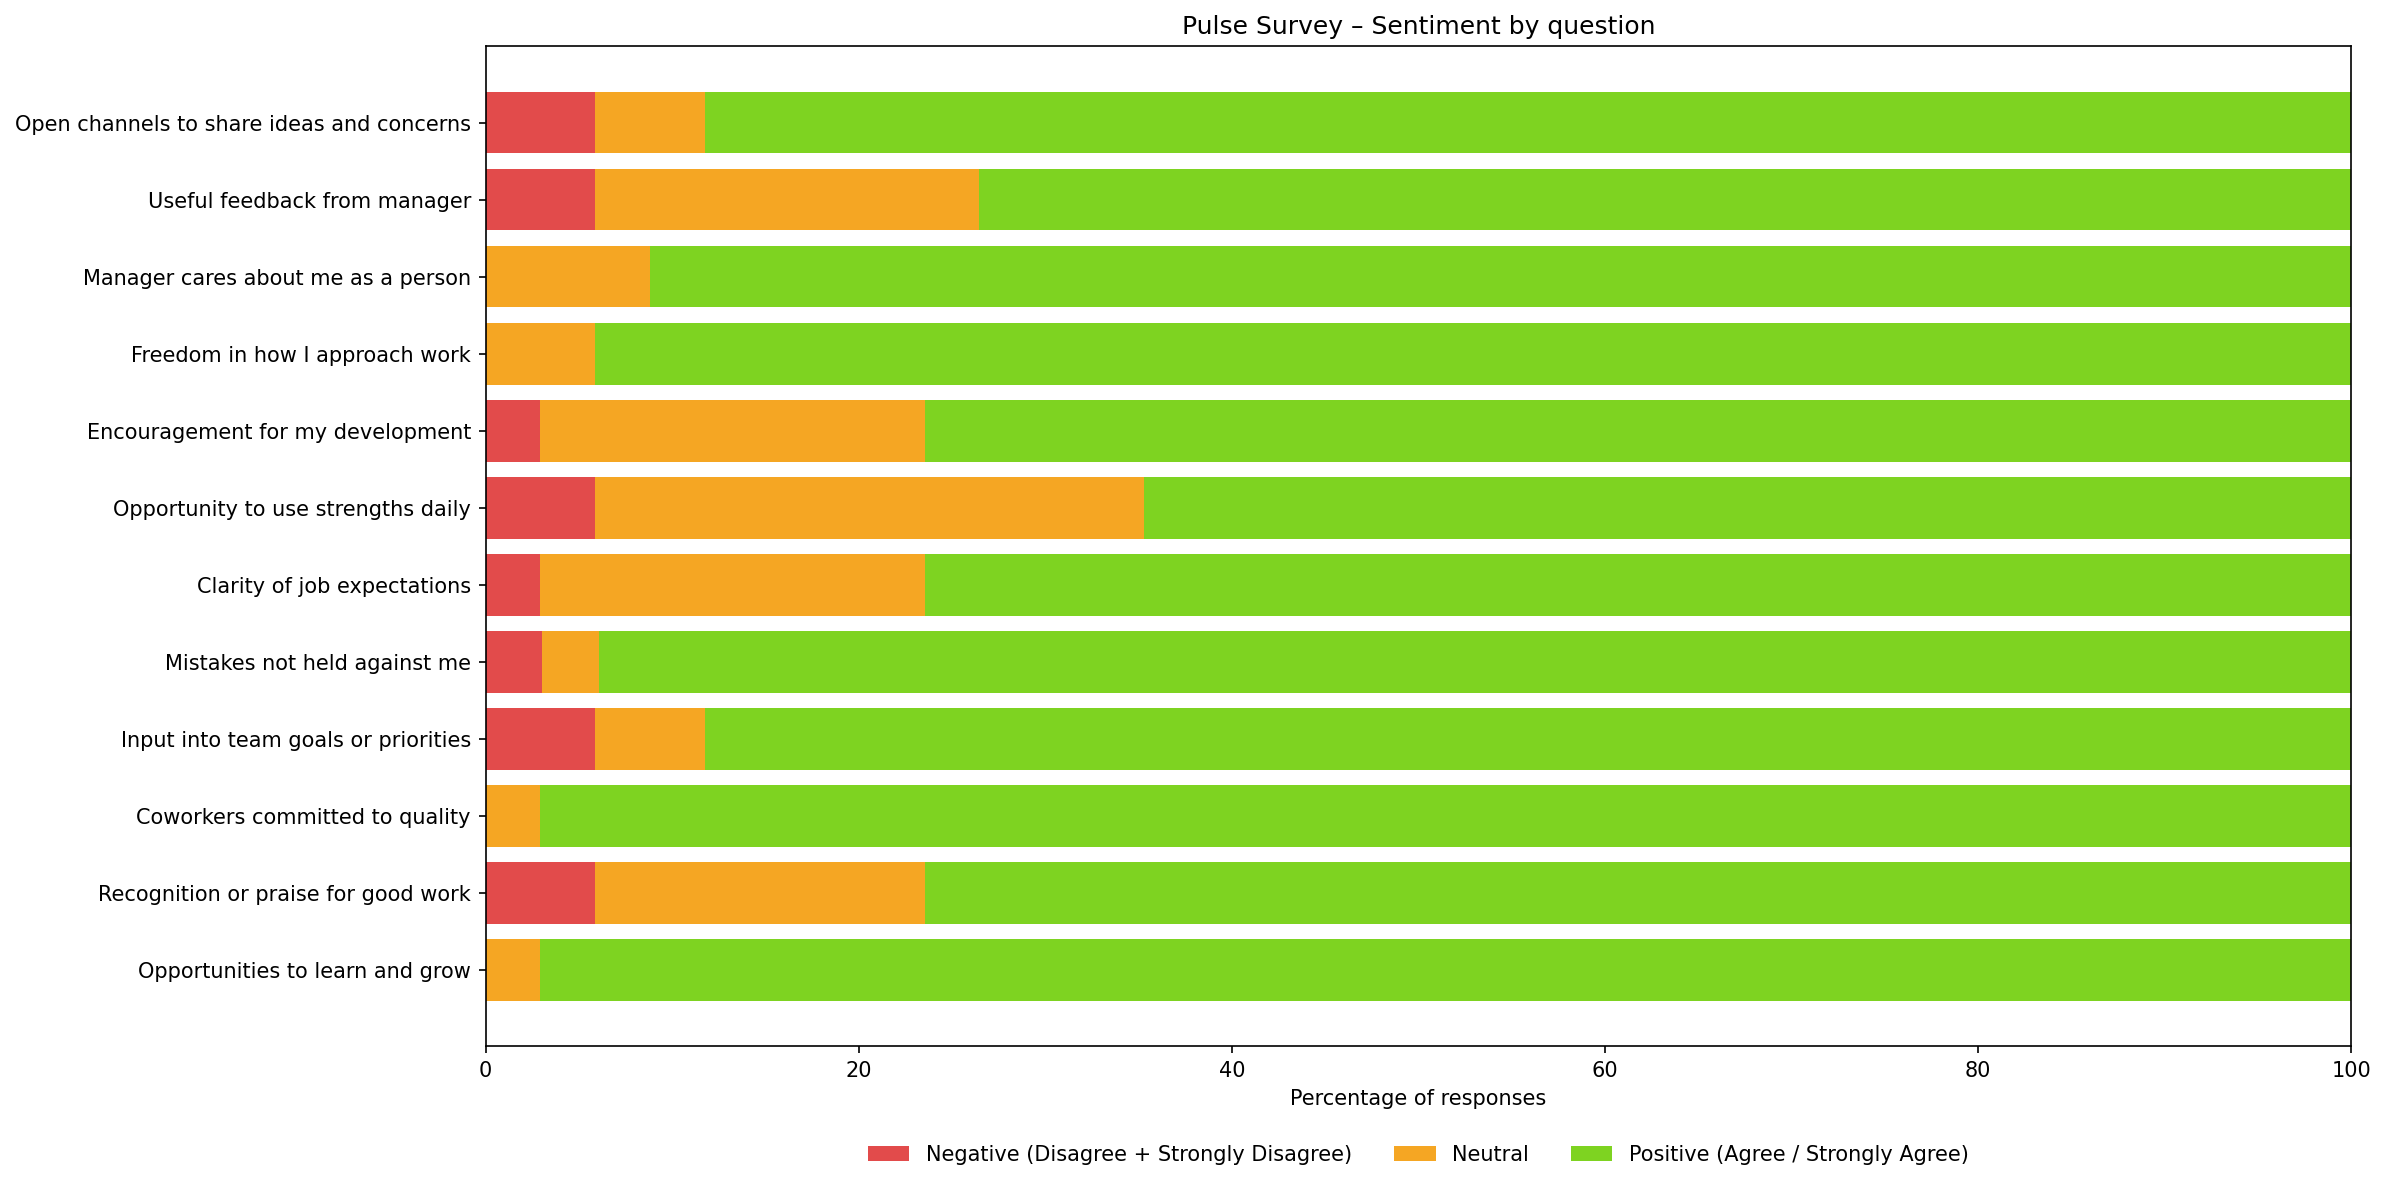
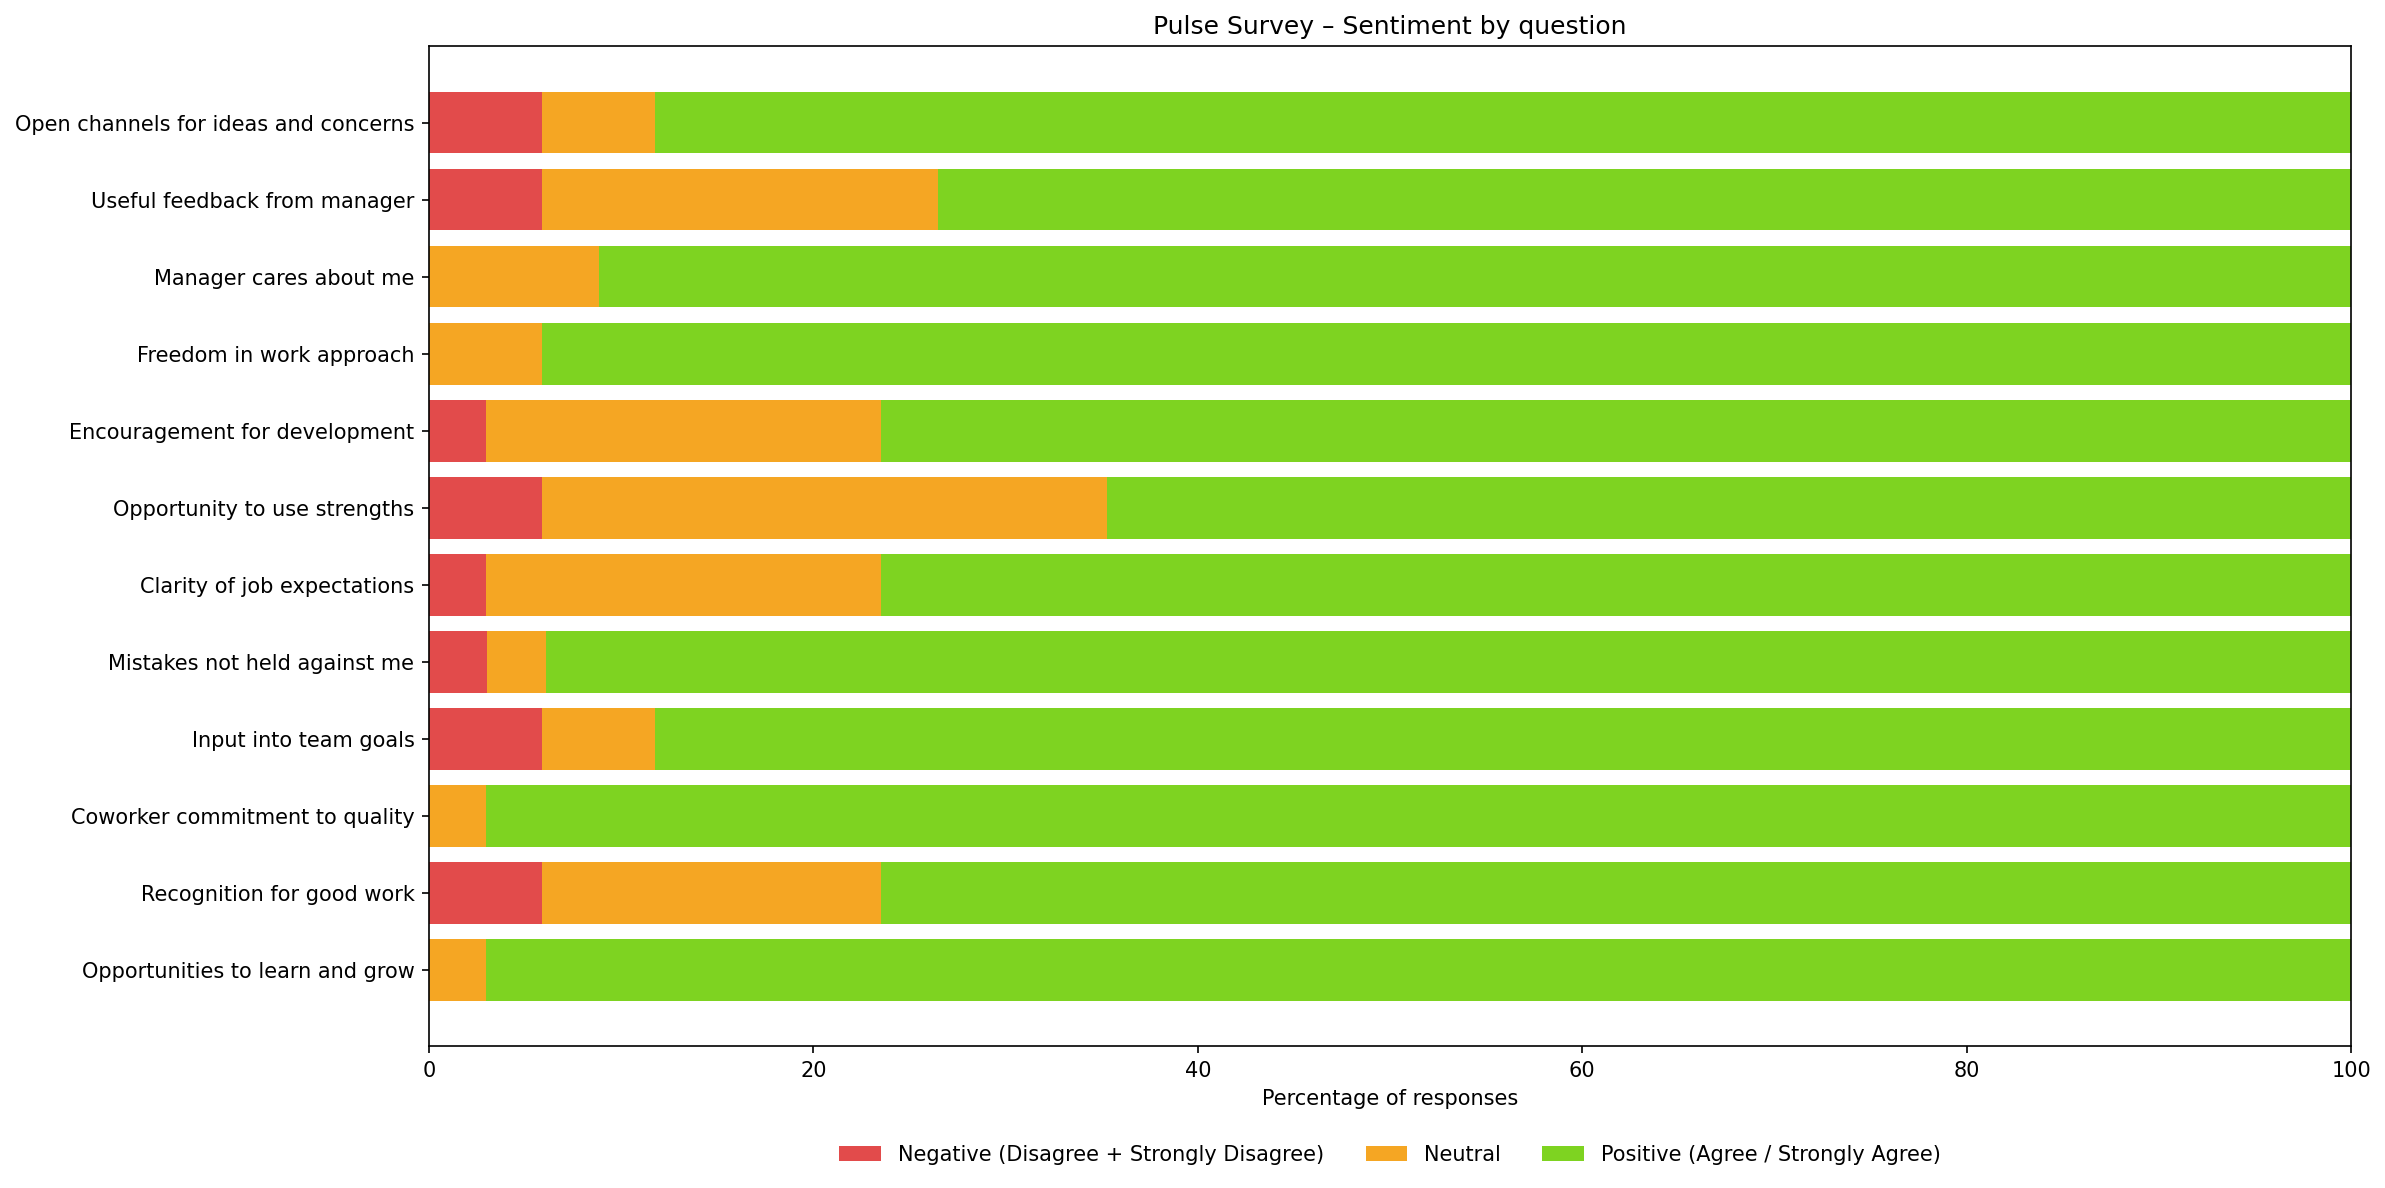
add per-squad breakdown

diff --git a/pulse-survey-analysis/visualize_survey.py b/pulse-survey-analysis/visualize_survey.py
@@ -2,7 +2,7 @@
 """
 Survey Results Visualization Script
 Reads survey-responses/GOps Engagement Survey – Pulse Check August 2025.xlsx, sheet Form Responses 1,
-outputs overall sentiment breakdown and a horizontal stacked bar chart per question.
+outputs overall sentiment breakdown, a horizontal stacked bar chart per question, and per-squad vertical bar charts (one PNG).
 
 Chart labels are derived from column headings via an LLM (OpenAI). Set OPENAI_API_KEY
 for LLM summarization. Leave OPENAI_MODEL unset to auto-pick a model you have access to. Without the API,
@@ -155,6 +155,18 @@ def get_question_columns(df):
     ]
 
 
+def get_squad_column(df):
+    """Return the column name that contains squad (e.g. AI, Alerting, IRM, SLOs), or None."""
+    for c in df.columns:
+        if "squad" in c.lower():
+            return c
+    return None
+
+
+# Expected squad names for ordering in charts (others from data will be appended)
+SQUAD_ORDER = ["AI", "Alerting", "IRM", "SLOs"]
+
+
 def main():
     os.makedirs(OUTPUT_DIR, exist_ok=True)
     year = extract_year_from_filename(EXCEL_FILE)
@@ -183,6 +195,7 @@ def main():
 
     # Per-question percentages for stacked bar chart
     labels_ordered = []
+    question_cols_with_data = []  # same order as labels_ordered
     pct_neg_list = []
     pct_neu_list = []
     pct_pos_list = []
@@ -194,6 +207,7 @@ def main():
         n = len(sents)
         if n == 0:
             continue
+        question_cols_with_data.append(col)
         pn = 100 * sum(1 for s in sents if s == "Negative") / n
         pnu = 100 * sum(1 for s in sents if s == "Neutral") / n
         pp = 100 * sum(1 for s in sents if s == "Positive") / n
@@ -222,7 +236,71 @@ def main():
     out_path = os.path.join(OUTPUT_DIR, f"responses-horizontal-graph{year_suffix}.png")
     plt.savefig(out_path, dpi=150, bbox_inches="tight")
     plt.close()
-    print("\nChart saved to", out_path)
+    print("Chart saved to", out_path)
+
+    # Per-question, per-squad vertical bar charts in one file (3 rows × N columns)
+    squad_col = get_squad_column(df)
+    if squad_col is None:
+        print("No squad column found; skipping per-squad charts.")
+    else:
+        # Build ordered list of squads (prefer SQUAD_ORDER, then any others from data)
+        squads_in_data = df[squad_col].dropna().astype(str).str.strip().unique().tolist()
+        squads_ordered = [s for s in SQUAD_ORDER if s in squads_in_data]
+        for s in squads_in_data:
+            if s not in squads_ordered:
+                squads_ordered.append(s)
+
+        n_q = len(labels_ordered)
+        n_cols = max(1, (n_q + 2) // 3)  # 3 rows, as many columns as needed
+        n_rows = 3
+        fig2, axes = plt.subplots(n_rows, n_cols, figsize=(4 * n_cols, 4 * n_rows))
+        if n_q == 1:
+            axes = np.array([[axes]])
+        elif axes.ndim == 1:
+            axes = axes.reshape(1, -1)
+        axes_flat = axes.flatten()
+
+        for idx, col in enumerate(question_cols_with_data):
+            if idx >= len(labels_ordered):
+                break
+            ax = axes_flat[idx]
+            row = df[[col, squad_col]].dropna(subset=[col])
+            row = row[row[squad_col].astype(str).str.strip().isin(squads_ordered)]
+            neg_list, neu_list, pos_list = [], [], []
+            for squad in squads_ordered:
+                subset = row[row[squad_col].astype(str).str.strip() == squad]
+                vals = subset[col].astype(str)
+                sents = [s for s in [sentiment(v) for v in vals] if s is not None]
+                n = len(sents)
+                if n == 0:
+                    neg_list.append(0)
+                    neu_list.append(0)
+                    pos_list.append(0)
+                else:
+                    neg_list.append(100 * sum(1 for s in sents if s == "Negative") / n)
+                    neu_list.append(100 * sum(1 for s in sents if s == "Neutral") / n)
+                    pos_list.append(100 * sum(1 for s in sents if s == "Positive") / n)
+            x = np.arange(len(squads_ordered))
+            w = 0.6
+            ax.bar(x, neg_list, width=w, color="#E24B4B", label="Negative")
+            ax.bar(x, neu_list, width=w, bottom=neg_list, color="#F5A623", label="Neutral")
+            ax.bar(x, pos_list, width=w, bottom=np.array(neg_list) + np.array(neu_list), color="#7ED321", label="Positive")
+            ax.set_xticks(x)
+            ax.set_xticklabels(squads_ordered, rotation=0)
+            ax.set_ylabel("Percentage")
+            ax.set_ylim(0, 100)
+            ax.set_title(labels_ordered[idx][:40] + ("…" if len(labels_ordered[idx]) > 40 else ""), fontsize=9)
+            if idx == 0:
+                ax.legend(loc="upper right", fontsize=7)
+
+        for j in range(len(labels_ordered), len(axes_flat)):
+            axes_flat[j].set_visible(False)
+        plt.suptitle("Pulse Survey – Sentiment by question and squad", y=1.02, fontsize=12)
+        plt.tight_layout()
+        out_path_squad = os.path.join(OUTPUT_DIR, f"responses-by-squad{year_suffix}.png")
+        plt.savefig(out_path_squad, dpi=150, bbox_inches="tight")
+        plt.close()
+        print("Chart saved to", out_path_squad)
 
 
 if __name__ == "__main__":
